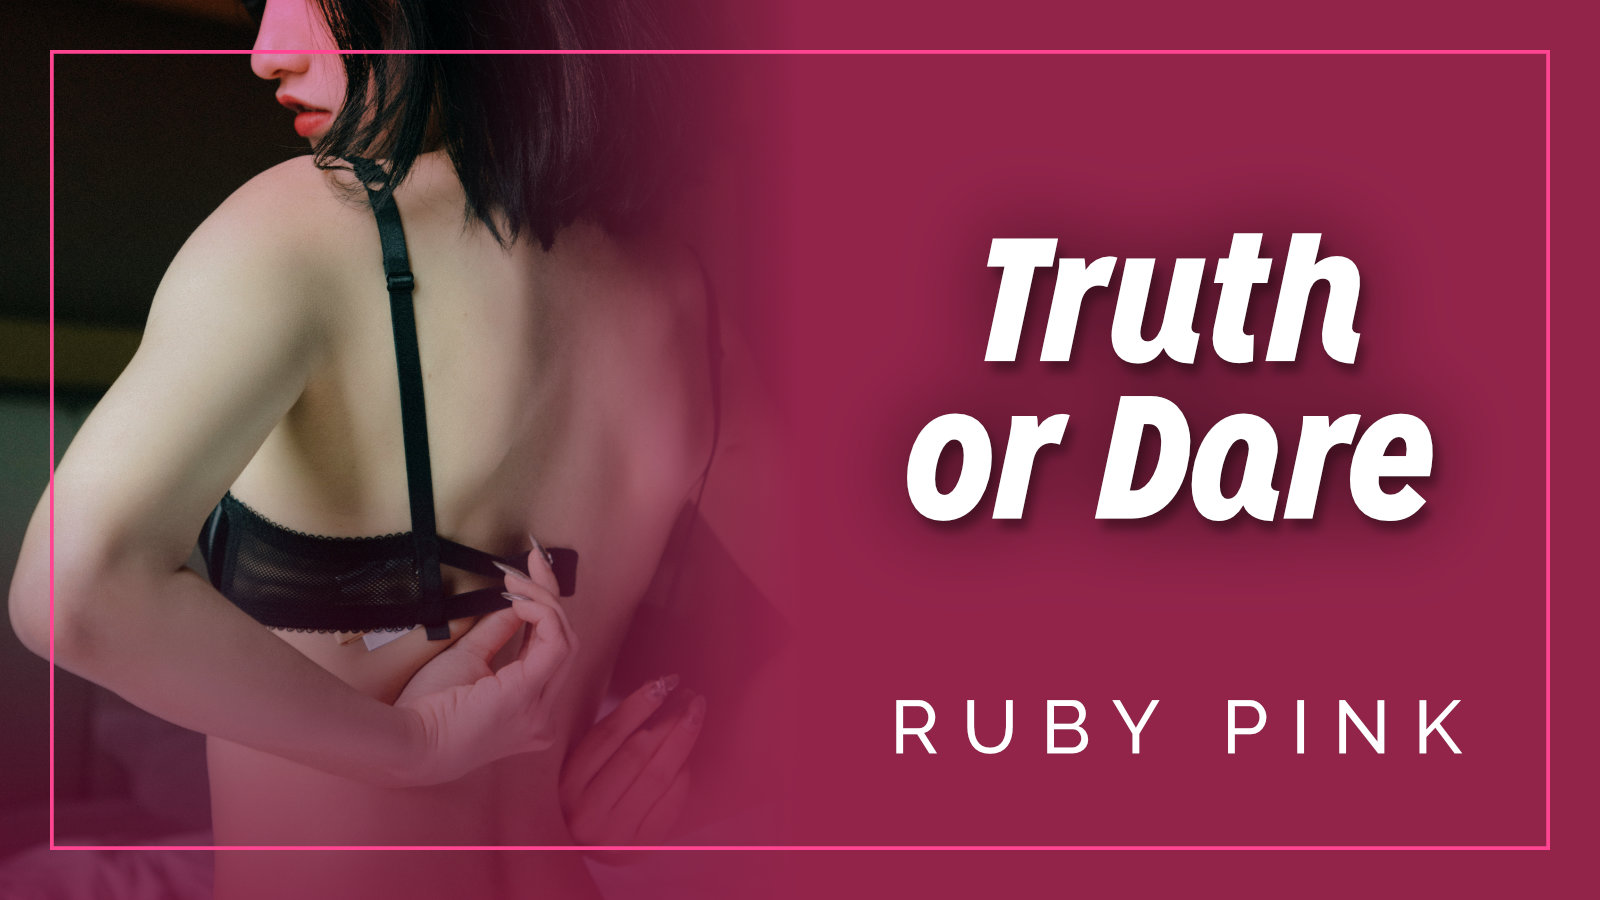
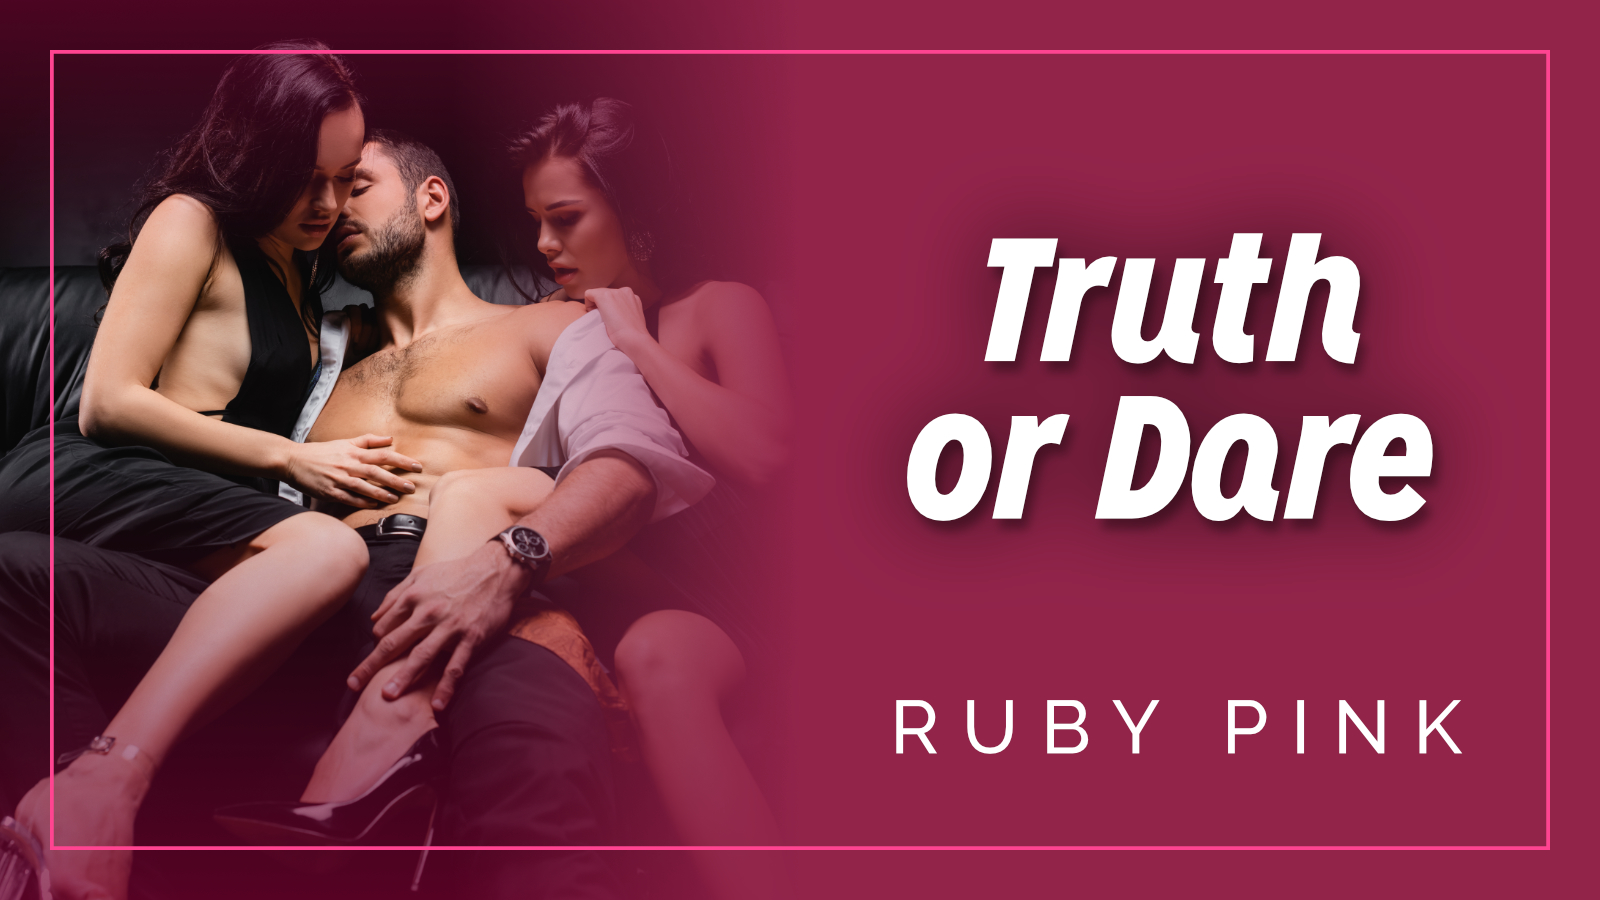
add truth or dare ebook

diff --git a/src/shorts/only-one-bed/only-one-bed.11tydata.js b/src/shorts/only-one-bed/only-one-bed.11tydata.js
@@ -7,4 +7,5 @@ module.exports = {
   seriesExcerpt:
     '“You can’t be serious. There’s no way we can all share one bed!”',
   social_image: 'social/only-one-bed-social.jpg',
+  bundled_in: ['only-one-bed-box-set'],
 };

diff --git a/src/books/truth-or-dare-ebook.md b/src/books/truth-or-dare-ebook.md
@@ -1,0 +1,28 @@
+---
+title: Truth or Dare
+subtitle: A Threesome Erotic Romance
+date: 2024-09-07
+category: Group Sex
+tags:
+  - group sex
+  - blowjob
+  - fellatio
+  - pussy eating
+  - cunnilingus
+  - female masturbation
+  - spanking
+  - ffm
+  - threesomes
+  - roommates
+characters:
+  - Alice
+  - Julie
+  - Dan
+excerpt: Julie uses a game to seduce Alice and Dan.
+blurb: When Julie suggests a game of Truth or Dare, will Dan and Alice follow her lead to a night the three of them will never forget?
+amazon: https://www.amazon.com/dp/B0DGDM1C4V
+feature_image: covers/truth-or-dare.jpg
+social_image: social/truth-or-dare-social.jpg
+---
+
+When the party ended, the only ones left were Julie, her roommate Alice, and their friend Dan. The room was flooded with romantic tension, but she could tell nothing was going to happen unless she got involved. When Julie suggests a game of Truth or Dare, will Dan and Alice follow her lead to a night the three of them will never forget?

diff --git a/src/shorts/truth-or-dare.md b/src/shorts/truth-or-dare.md
@@ -20,6 +20,8 @@ characters:
 excerpt: Julie uses a game to start a threesome with Alice and Dan.
 feature_image: 'covers/truth-or-dare.jpg'
 social_image: 'social/truth-or-dare-social.jpg'
+bundled_in:
+  - truth-or-dare-ebook
 ---
 
 It was clear to Julie that nothing would happen unless she got involved. The party wound down a while ago, and everyone had gone home except Alice’s friend Dan. There was chemistry between him and the two roommates, but he seemed reluctant to act on it. Julie could tell that Alice fancied him, but was hesitating because she could also sense a spark between him and Julie. Alice sometimes suffered from limited imagination, Julie thought, as she grabbed three beers from the fridge.

diff --git a/src/shorts/only-one-bed/11-emma-and-liam-take-a-walk.md b/src/shorts/only-one-bed/11-emma-and-liam-take-a-walk.md
@@ -18,8 +18,6 @@ characters:
   - Liam
 excerpt: Emma and Liam act out their fantasies after sunset.
 number: 11
-bundled_in:
-  - only-one-bed-box-set
 ---
 
 As the sun kissed the horizon, Emma pretended to shiver and scooted closer to Liam. He raised an eyebrow, but allowed her to pull his arm over her shoulders. The thinly scattered clouds glowed brilliant shades of pink and orange as they caught the sun’s last rays. They were sitting on a blanket spread out on the sand in the same spot where the girls did their sunbathing. She barely saw anyone there during the day, so she hoped for the same privacy at night.

diff --git a/src/shorts/only-one-bed/4-zoya-and-liam-play-in-the-ocean.md b/src/shorts/only-one-bed/4-zoya-and-liam-play-in-the-ocean.md
@@ -15,8 +15,6 @@ characters:
   - Liam
 excerpt: When she catches Liam with an erection, Zoya offers a hand.
 number: 4
-bundled_in:
-  - only-one-bed-box-set
 ---
 
 Zoya looked up from her book as Liam flopped onto the towel next to her. Despite Emma’s dismissiveness, he really had filled out nicely. Not as tall or broad as Nolan, granted, but Zoya wouldn’t kick him out of her bed. Her eyes roamed down past his chest. There was just a hint of hair trailing below the waistband of his board shorts. She wondered if he trimmed. He looked up, catching her biting her lip.

diff --git a/src/shorts/only-one-bed/3-emma-gives-nolan-a-hand.md b/src/shorts/only-one-bed/3-emma-gives-nolan-a-hand.md
@@ -16,8 +16,6 @@ characters:
   - Nolan
 excerpt: Emboldened by Nolan’s interest, Emma makes her move.
 number: 3
-bundled_in:
-  - only-one-bed-box-set
 ---
 
 Emma pretended to sleep, but every fiber of her being was alert for any sound or movement from Nolan. She wanted to heave a sigh, or toss and turn, but worried she’d spook him. The longer she waited, the more doubts filled her head. What if he knew she’d watched him last night? What if he didn’t feel like doing it again tonight? Despite Zoya’s assurances, what if she just wasn’t his type?

diff --git a/src/shorts/only-one-bed/6-zoya-and-liam-watch-a-movie.md b/src/shorts/only-one-bed/6-zoya-and-liam-watch-a-movie.md
@@ -16,8 +16,6 @@ characters:
   - Liam
 excerpt: Zoya entertains herself by going down on Liam in a theater.
 number: 6
-bundled_in:
-  - only-one-bed-box-set
 ---
 
 Zoya stretched languidly and listened to the sound of pouring rain. The bed was warm, and she was in no hurry to get up. She could hear Nolan in the shower, and pictured him soaping up to wash away his and Emma’s cum. It had been hard not to make any noise as she masturbated to them going down on each other. Even after cumming twice, her dreams had been a swirl of intensely erotic scenarios.

diff --git a/src/shorts/only-one-bed/8-zoya-and-liam-go-all-the-way.md b/src/shorts/only-one-bed/8-zoya-and-liam-go-all-the-way.md
@@ -19,8 +19,6 @@ characters:
   - Emma
 excerpt: Zoya rides Liam while watching Emma and Nolan.
 number: 8
-bundled_in:
-  - only-one-bed-box-set
 ---
 
 After Emma kissed her and rolled away to have sex with Nolan, Zoya lay on her back trying to catch her breath. That sexy little redhead had really gotten her going. Her heart was pounding, and she was already wet. Not that it took much. She’d been in sexual overdrive since they arrived. So when Emma’s new take-charge attitude targeted Zoya, even just for a moment, it left her a bit weak in the knees.

diff --git a/src/shorts/only-one-bed/9-emma-watches-liam.md b/src/shorts/only-one-bed/9-emma-watches-liam.md
@@ -14,8 +14,6 @@ characters:
   - Liam
 excerpt: Emma catches an eyeful of Liam’s private time in the shower.
 number: 9
-bundled_in:
-  - only-one-bed-box-set
 ---
 
 Everyone but Nolan had been a bit slow to wake up that morning. The blonde surfer had emerged from the bathroom rubbing his hair dry, announced that the surf was up, and they should all get out of bed. When no one moved, he’d laughed, called them all “bludgers” and thrown open the curtains to let the sunlight in.

diff --git a/src/shorts/only-one-bed/10-zoya-and-nolan-watch-a-movie.md b/src/shorts/only-one-bed/10-zoya-and-nolan-watch-a-movie.md
@@ -18,8 +18,6 @@ characters:
   - Nolan
 excerpt: Surprised by Nolan’s search history, Zoya makes a move.
 number: 10
-bundled_in:
-  - only-one-bed-box-set
 ---
 
 Zoya looked up from her book as Emma returned from the hotel room. Without saying anything, the redhead dropped her phone and coverup into the bag and ran down the beach. She waded out chest-deep in the water, and splashed around a bit. After a few minutes, she walked back and sat on her towel, looking flushed.

diff --git a/src/shorts/only-one-bed/12-emma-and-the-boys.md b/src/shorts/only-one-bed/12-emma-and-the-boys.md
@@ -19,8 +19,6 @@ characters:
   - Nolan
 excerpt: Emma fulfills her fantasy with Liam and Nolan.
 number: 12
-bundled_in:
-  - only-one-bed-box-set
 ---
 
 The next morning wasn’t exactly awkward, but there was a noticeable tension in the air, like the pressure before a storm. Everyone was waiting for Zoya to make the next move. They were all fairly sure they knew what her big plan was, but no one wanted to jinx it by saying it out loud.

diff --git a/src/shorts/only-one-bed/1-emma-watches-nolan.md b/src/shorts/only-one-bed/1-emma-watches-nolan.md
@@ -12,8 +12,6 @@ characters:
   - Nolan
 excerpt: Forced to share a room, Emma secretly watches Nolan.
 number: 1
-bundled_in:
-  - only-one-bed-box-set
 ---
 
 Emma lowered her headphones as her dad parked the rental car. Sunlight gleamed on the ocean behind the hotel. She opened the door and took a deep breath of humid, tropical air as she gathered her things.
